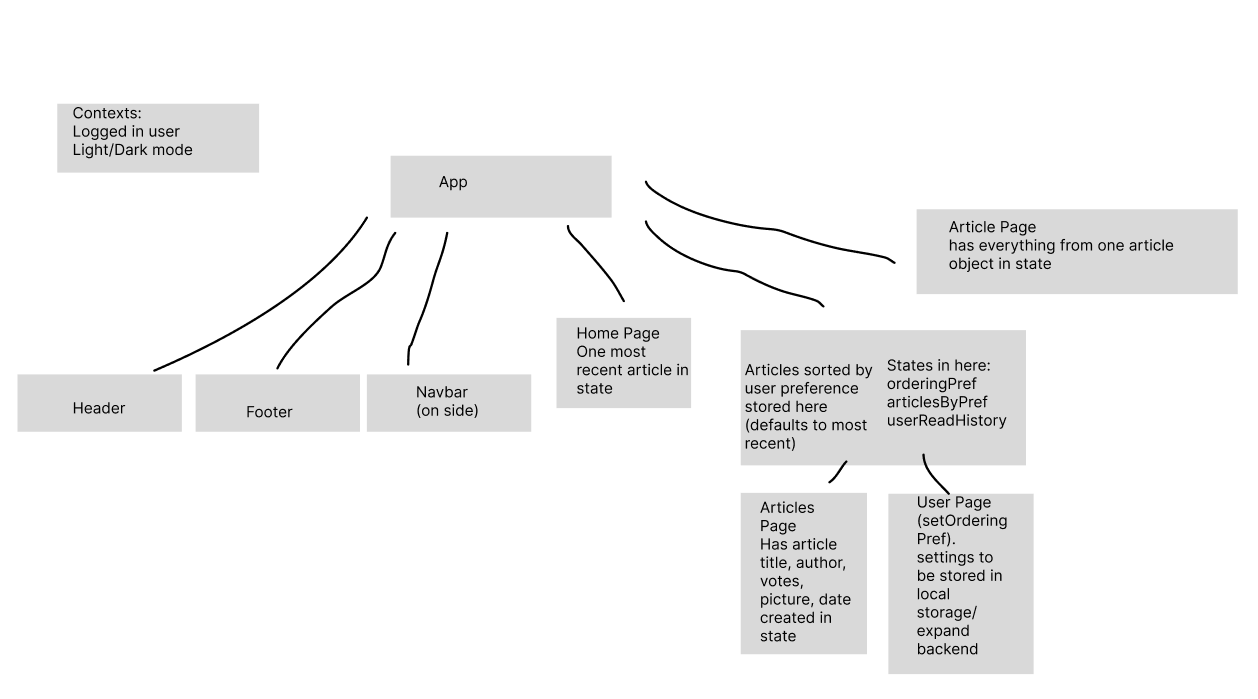
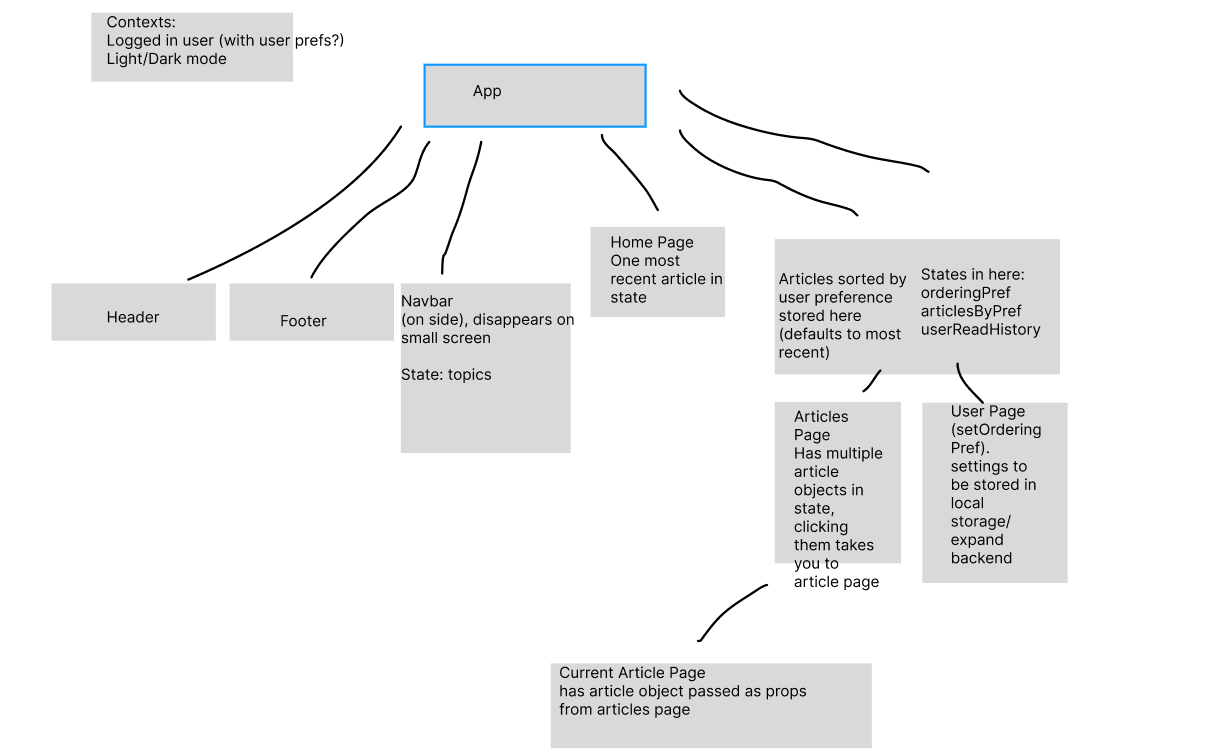
articles

diff --git a/src/components/ArticlesPage.jsx b/src/components/ArticlesPage.jsx
@@ -1,0 +1,50 @@
+import React from 'react'
+import { useState } from 'react'
+import { useEffect } from 'react'
+
+function ArticlesPage() {
+ 
+const [allArticles, setAllArticles] = useState([])
+
+useEffect(()=> {
+    console.log("in the useeffect")
+    fetchArticles().then((response) => response.json()).then(({articles}) => {
+        console.log(articles, "articles in useeffect")
+        setAllArticles(articles)
+    })
+}, [])
+
+const fetchArticles = () => {
+    console.log("in fetch articles")
+    return fetch('https://nc-news-z0zw.onrender.com/api/articles')
+    }
+
+
+
+console.log(allArticles, "allArticles")
+
+  return (
+    <><p>On the articles page</p>
+    <div className="articles">
+          {allArticles.map((article) => {
+              return (
+                  <div key = {article.article_id} className="article-section-small">
+                        <div className="article-section-small-topic-author">
+                        <p>In {article.topic} | Posted by {article.author}</p>
+                            </div>
+                      <div className="article-section-small-title-img">
+                        <p>{article.title}</p>
+                        <img className = "article-img-small" src={article.article_img_url}></img>
+                        </div>
+                      
+                      <p>Comments: {article.comment_count} Votes: {article.votes}</p>
+                  </div>
+              )
+          })} 
+
+      </div>
+      </>
+  )
+}
+
+export default ArticlesPage

diff --git a/src/App.jsx b/src/App.jsx
@@ -1,14 +1,26 @@
 import React from 'react'
 import { useState } from 'react'
+import { Route, Routes } from 'react-router-dom'
 import Header from './components/Header'
 import Footer from './components/Footer'
 import './App.css'
+import HomePage from './components/HomePage'
+import ArticlesPage from './components/ArticlesPage'
+import UserPage from './components/UserPage'
 
 function App() {
 
 
   return (
-    <><Header /><Footer /></>
+    <><Header />
+    <Routes>
+        <Route path="/" element={<HomePage />} />
+        <Route path="/articles" element={<ArticlesPage />} />
+        <Route path="/user" element={<UserPage />} />
+      </Routes>
+
+    
+<Footer /></>
   )
 }
 

diff --git a/src/main.jsx b/src/main.jsx
@@ -1,10 +1,13 @@
 import React from 'react'
 import ReactDOM from 'react-dom/client'
 import App from './App.jsx'
+import { BrowserRouter } from 'react-router-dom'
 
 
 ReactDOM.createRoot(document.getElementById('root')).render(
+  <BrowserRouter>
   <React.StrictMode>
     <App />
-  </React.StrictMode>,
+  </React.StrictMode>
+  </BrowserRouter> 
 )

diff --git a/src/App.css b/src/App.css
@@ -3,4 +3,16 @@
   margin: 0 auto;
   padding: 2rem;
   text-align: center;
+  font-family: Arial, Helvetica, sans-serif;
+}
+
+*{
+  border: 1px solid black
+}
+
+.article-section-small {
+}
+
+.article-img-small {
+  width: 15vw;
 }

diff --git a/src/components/UserPage.jsx b/src/components/UserPage.jsx
@@ -1,0 +1,12 @@
+import React from 'react'
+import { useState } from 'react'
+
+function UserPage() {
+    
+
+  return (
+    <p>On the user page</p>
+  )
+}
+
+export default UserPage

diff --git a/src/components/HomePage.jsx b/src/components/HomePage.jsx
@@ -1,0 +1,12 @@
+import React from 'react'
+import { useState } from 'react'
+
+function HomePage() {
+    
+
+  return (
+    <p>On the homepage</p>
+  )
+}
+
+export default HomePage
